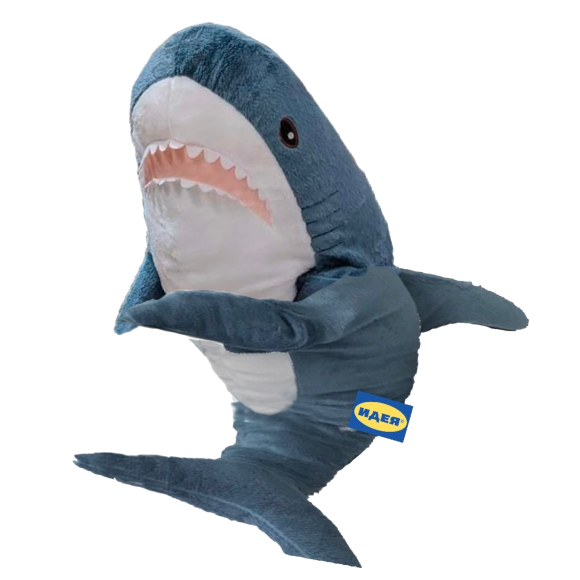
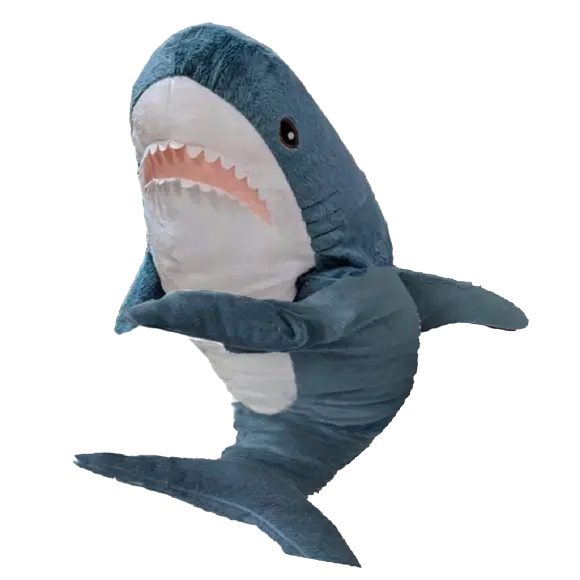
fix: update image source in DiscoveryHero to correct file format

Changed region(s): [[0.5897, 0.6517, 0.7138, 0.7759]]

diff --git a/src/components/discovery/hero.tsx b/src/components/discovery/hero.tsx
@@ -51,7 +51,7 @@ export function DiscoveryHero() {
             className='relative z-10'
           >
             <motion.div animate={{ y: [0, 5, 0] }} transition={{ duration: 4.5, ease: 'easeInOut', repeat: Infinity }}>
-              <Image unoptimized priority width={320} height={320} src='/blahajSmall.webp' alt='Two Blåhaj sharing a hug' className='h-auto w-72' />
+              <Image unoptimized priority width={320} height={320} src='/blahajSmall.png' alt='Two Blåhaj sharing a hug' className='h-auto w-72' />
             </motion.div>
           </motion.div>
         </div>
